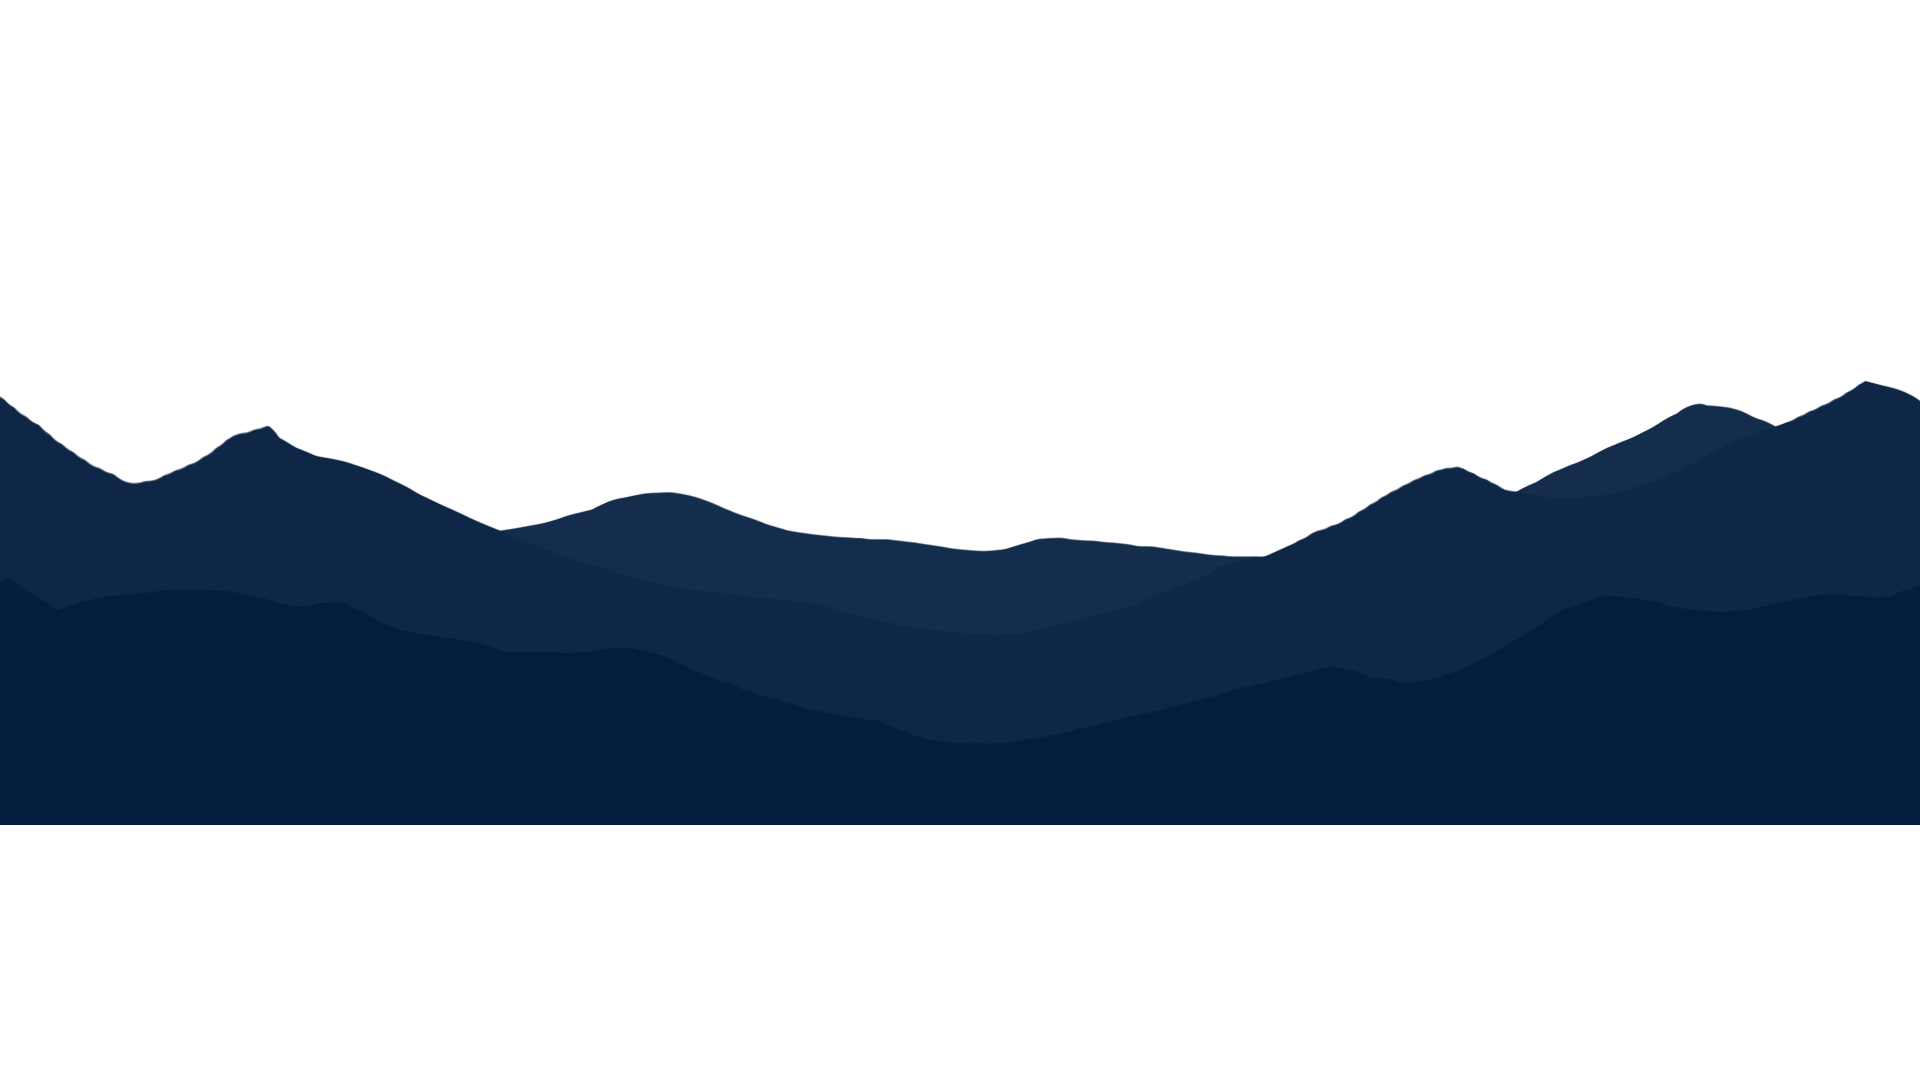
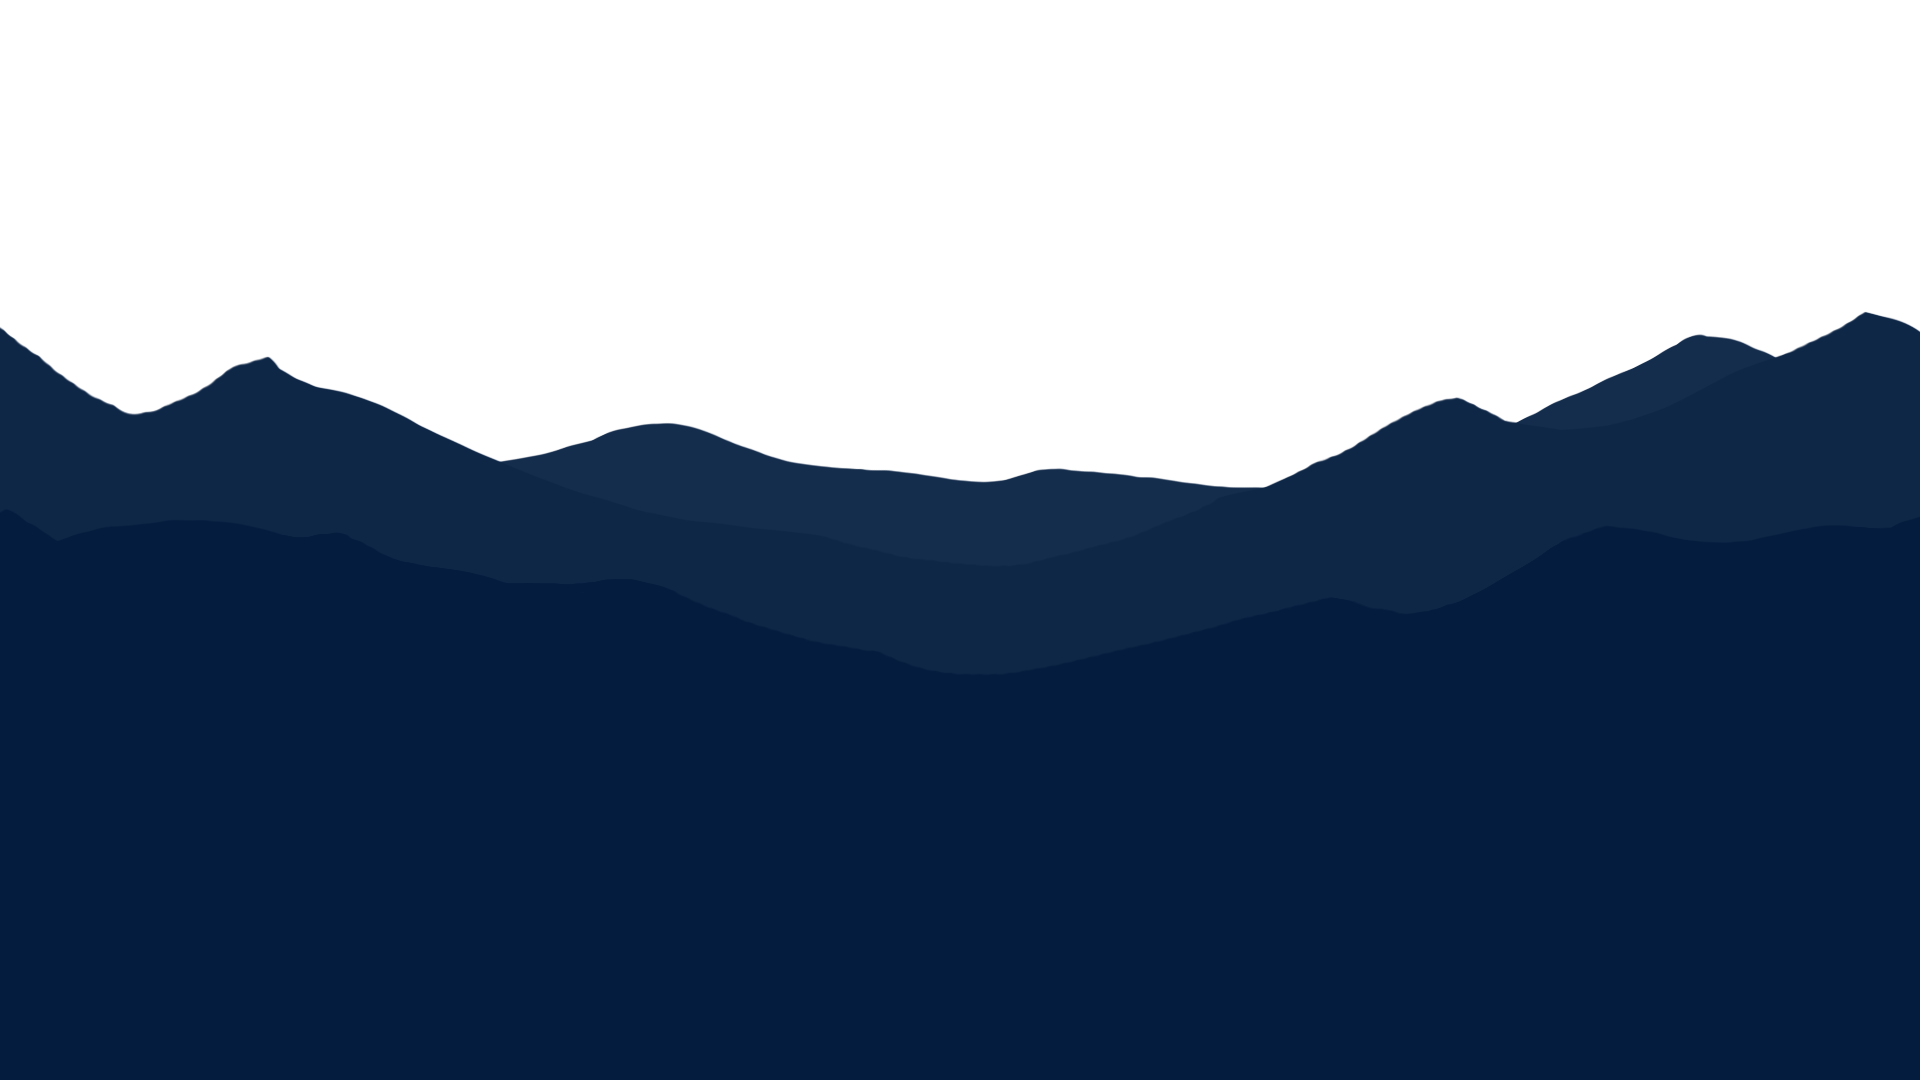
added zoom effect

diff --git a/src/components/Background.jsx b/src/components/Background.jsx
@@ -1,4 +1,4 @@
-import React from 'react';
+import React, { useEffect, useState } from 'react';
 
 // components
 import FlipBookLlama from './FlipBookLlama';
@@ -13,15 +13,37 @@ import Grass from './Grass';
 import './Background.css';
 
 function Background(props) {
+
+  const [zoom, setZoom] = useState(("scale(1)"))
+
+  useEffect(() => {
+    if(props.pageIndex === 1) {
+      setZoom("scale(1)")
+    } 
+    if(props.pageIndex === 2) {
+      setZoom("scale(0.8)")
+    } 
+    if(props.pageIndex === 3) {
+      setZoom("scale(0.6)")
+    } 
+    if(props.pageIndex === 4) {
+      setZoom("scale(0.5)")
+    } 
+     
+    
+  }, [props.pageIndex, zoom])
+
   return (
-    <div className="Background">
-      <Trees backgroundPlay={props.backgroundPlay} />
-      <FlipBookLlama LlamaPlay={props.LlamaPlay}/>
-      <Moon pageIndex={props.pageIndex}/>
-      <Mountains />
-      <TallTrees backgroundPlay={props.backgroundPlay}/>
-      <NightOverlay  pageIndex={props.pageIndex} />
-      <Grass backgroundPlay={props.backgroundPlay}></Grass>
+    <div className="backgroundWrapper">
+      <div className="Background"  style={{transform: zoom}}>
+        <Moon pageIndex={props.pageIndex}/>
+        <Trees backgroundPlay={props.backgroundPlay} />
+        <FlipBookLlama LlamaPlay={props.LlamaPlay}/>
+        <Mountains />
+        <Grass backgroundPlay={props.backgroundPlay}></Grass>
+      </div>
+        <TallTrees zoom={zoom} backgroundPlay={props.backgroundPlay}/>
+        <NightOverlay pageIndex={props.pageIndex} />
     </div>
   );
 }

diff --git a/src/components/TallTrees.css b/src/components/TallTrees.css
@@ -1,11 +1,14 @@
 #foreground {
-  grid-row: 1 / 3;
-  grid-column: 1;
-  min-height: 100vh;
-  background: url("../img/tallTree2.png") repeat-x;
-  animation: scrollBack 30s linear infinite;
+  position: absolute;
+  height: 200%;
+  width: 500%;
+  background: url("../img/tallTree3.png") repeat-x;
+  animation: scrollBack 40s linear infinite;
   /* animation-play-state: paused; */
   z-index: 4;
+  transform: scale(0.8);
+  transform-origin: bottom;
+  transition: all 8s ease-in-out;
 }
 
 @keyframes scrollBack {
@@ -13,6 +16,6 @@
     background-position: 0 bottom;
   }
   to {
-    background-position: 2963px bottom;
+    background-position: 2154px bottom;
   }
 }

diff --git a/src/App.js b/src/App.js
@@ -21,7 +21,7 @@ function App() {
 
   const handleBackgroundPlay = () => {
     if(backgroundPlay === "paused"){setBackgroundPlay("running")
-      setTimeout(function() {setBackgroundPlay("paused")}, 2500)}
+      setTimeout(function() {setBackgroundPlay("paused")}, 10000)}
       if (backgroundPlay === "running"){
         setBackgroundPlay("running")
       }
@@ -32,7 +32,7 @@ function App() {
   
   function handleLlamaPlay(){
     if(LlamaPlay === 0){setLlamaPlay(1)
-    setTimeout(function() {setLlamaPlay(0)}, 2500)}
+    setTimeout(function() {setLlamaPlay(0)}, 10000)}
     if (LlamaPlay === 1){
       setLlamaPlay(1)
     }

diff --git a/src/components/Grass.css b/src/components/Grass.css
@@ -1,10 +1,10 @@
 .grass {
-  height: 100vh;
-  width: 100vw;
+  height: 100%;
+  width: 100%;
   /* background: #000220;
   clip-path: ellipse(50% 6% at 50% 100%); */
-  background: url("../img/grass2.png") bottom repeat-x;
-  animation: scrollBackGrass 15s linear infinite;
+  background: url("../img/grass.png") bottom repeat-x;
+  animation: scrollBackGrass 7s linear infinite;
   z-index: 10;
 }
 
@@ -13,6 +13,6 @@
     background-position: 0 bottom;
   }
   to {
-    background-position: 520px bottom;
+    background-position: 245px bottom;
   }
 }

diff --git a/src/components/Moon.jsx b/src/components/Moon.jsx
@@ -11,15 +11,15 @@ const Moon = (props) => {
       setMoonRaysOpacity("0.6")
     } 
     if(props.pageIndex === 2) {
-      setMoveMoon("260px")
+      setMoveMoon("-20px")
       setMoonRaysOpacity("0.6")
     } 
     if(props.pageIndex === 3) {
-      setMoveMoon("360px")
+      setMoveMoon("-160px")
       setMoonRaysOpacity("0.4")
     } 
     if(props.pageIndex === 4) {
-      setMoveMoon("460px")
+      setMoveMoon("-260px")
       setMoonRaysOpacity("0")
     } 
      

diff --git a/src/components/Background.css b/src/components/Background.css
@@ -3,10 +3,20 @@
   padding: 0;
 }
 
+.backgroundWrapper {
+  position: absolute;
+  width: 100%;
+  height: 100%;
+  overflow: hidden;
+  display: flex;
+  justify-content: center;
+}
+
 .Background {
   position: absolute;
   display: grid;
-  width: 100vw;
-  height: 100vh;
-  overflow: hidden;
+  width: 500%;
+  transform: scale(0.8);
+  transform-origin: bottom;
+  transition: all 8s ease-in-out;
 }

diff --git a/src/components/Mountains.css b/src/components/Mountains.css
@@ -1,7 +1,12 @@
 .mountains {
-  position: fixed;
-  width: 100vw;
-  min-height: 100vh;
-  background: url("../img/mountains3.png") bottom repeat-x;
+  width: 100%;
+  min-height: 1080px;
+  background: url("../img/mountains2.png") bottom repeat-x;
   z-index: 1;
+}
+
+@media screen and (max-width: 750px) {
+  .mountains {
+    background: url("../img/mountains3.png") bottom repeat-x;
+  }
 }

diff --git a/src/components/TallTrees.jsx b/src/components/TallTrees.jsx
@@ -2,9 +2,10 @@ import React from 'react'
 import './TallTrees.css'
 
 const TallTrees = (props) => {
-  const {backgroundPlay} = props
+  
+  const {backgroundPlay, zoom} = props
   return (
-      <div id='foreground' style={{animationPlayState: backgroundPlay}}></div>
+      <div id='foreground' style={{animationPlayState: backgroundPlay, transform: zoom}}></div>
   )
 }
 

diff --git a/src/components/NightOverlay.css b/src/components/NightOverlay.css
@@ -12,8 +12,8 @@
 .nightOverlay {
   background: linear-gradient(270deg, #040716, #010218);
   background-size: 600% 600%;
-  width: 100vw;
-  height: 100vh;
+  width: 100%;
+  height: 100%;
   -webkit-animation: nightOverlay 60s ease infinite;
   -o-animation: nightOverlay 60s ease infinite;
   animation: nightOverlay 60s ease infinite;

diff --git a/src/components/Moon.css b/src/components/Moon.css
@@ -8,7 +8,7 @@
   justify-self: center;
   align-self: start;
   z-index: 1;
-  transition: all 2s ease-in-out;
+  transition: all 12s ease-in-out;
 }
 
 #moonRays {
@@ -23,7 +23,7 @@
   align-self: start;
   z-index: 6;
   opacity: 0.5;
-  transition: all 2s;
+  transition: all 12s ease-in-out;
 }
 
 @keyframes moonBeam {

diff --git a/src/components/CurrentPage.css b/src/components/CurrentPage.css
@@ -1,6 +1,4 @@
 #pageContainer {
-  height: 100vh;
-  width: 100vh;
   position: absolute;
   width: 100vw;
   height: 100vh;

diff --git a/src/components/Trees.css b/src/components/Trees.css
@@ -1,5 +1,4 @@
 #trees {
-  align-self: end;
   grid-row: 2;
   grid-column: 1;
   max-height: 1080px;
